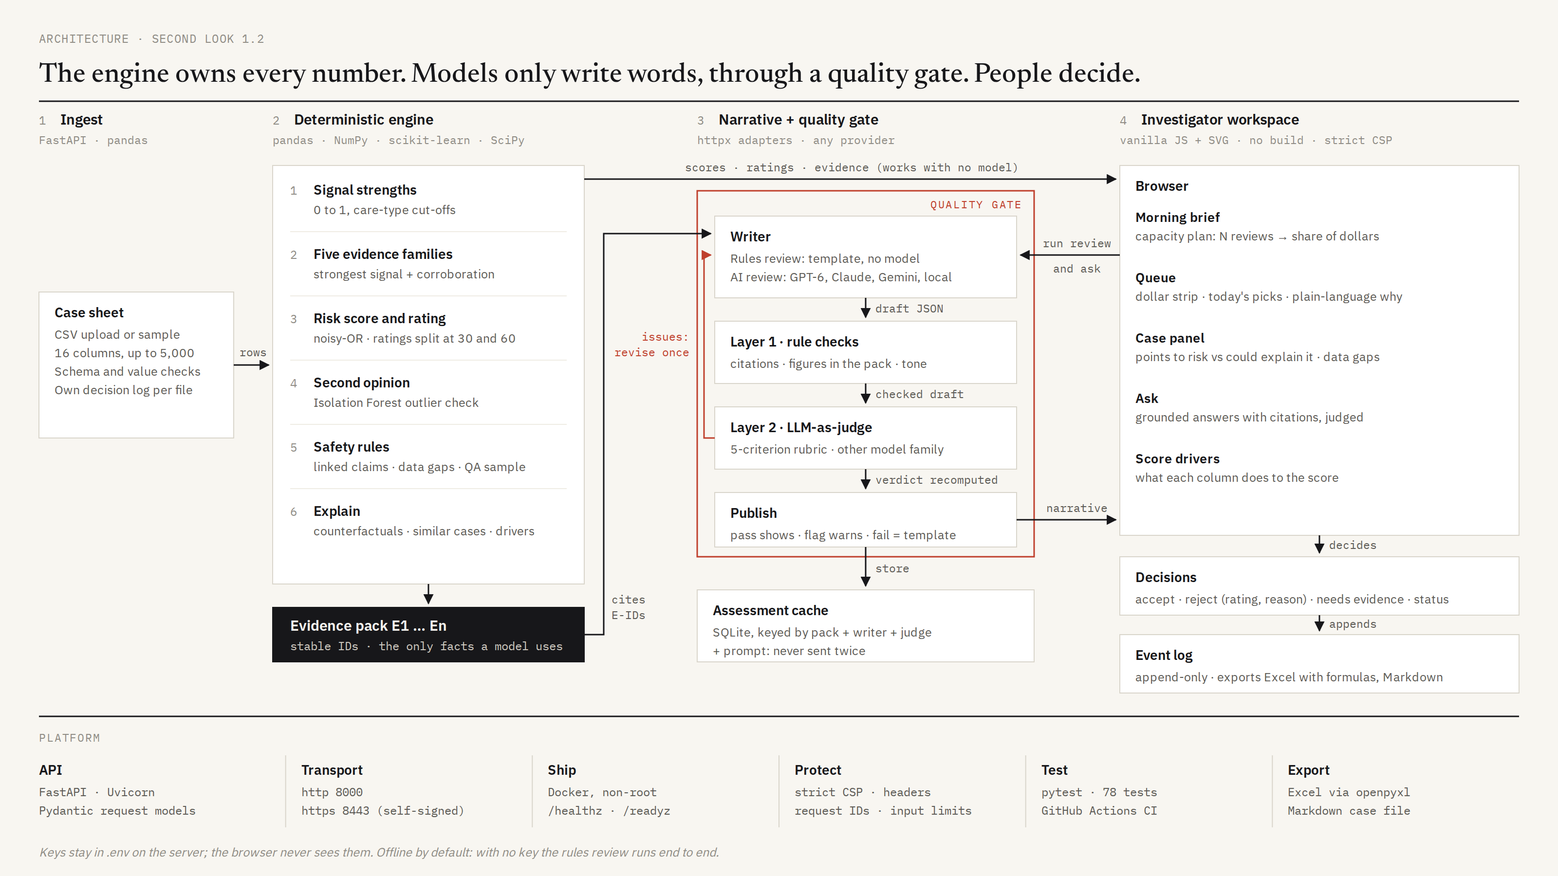
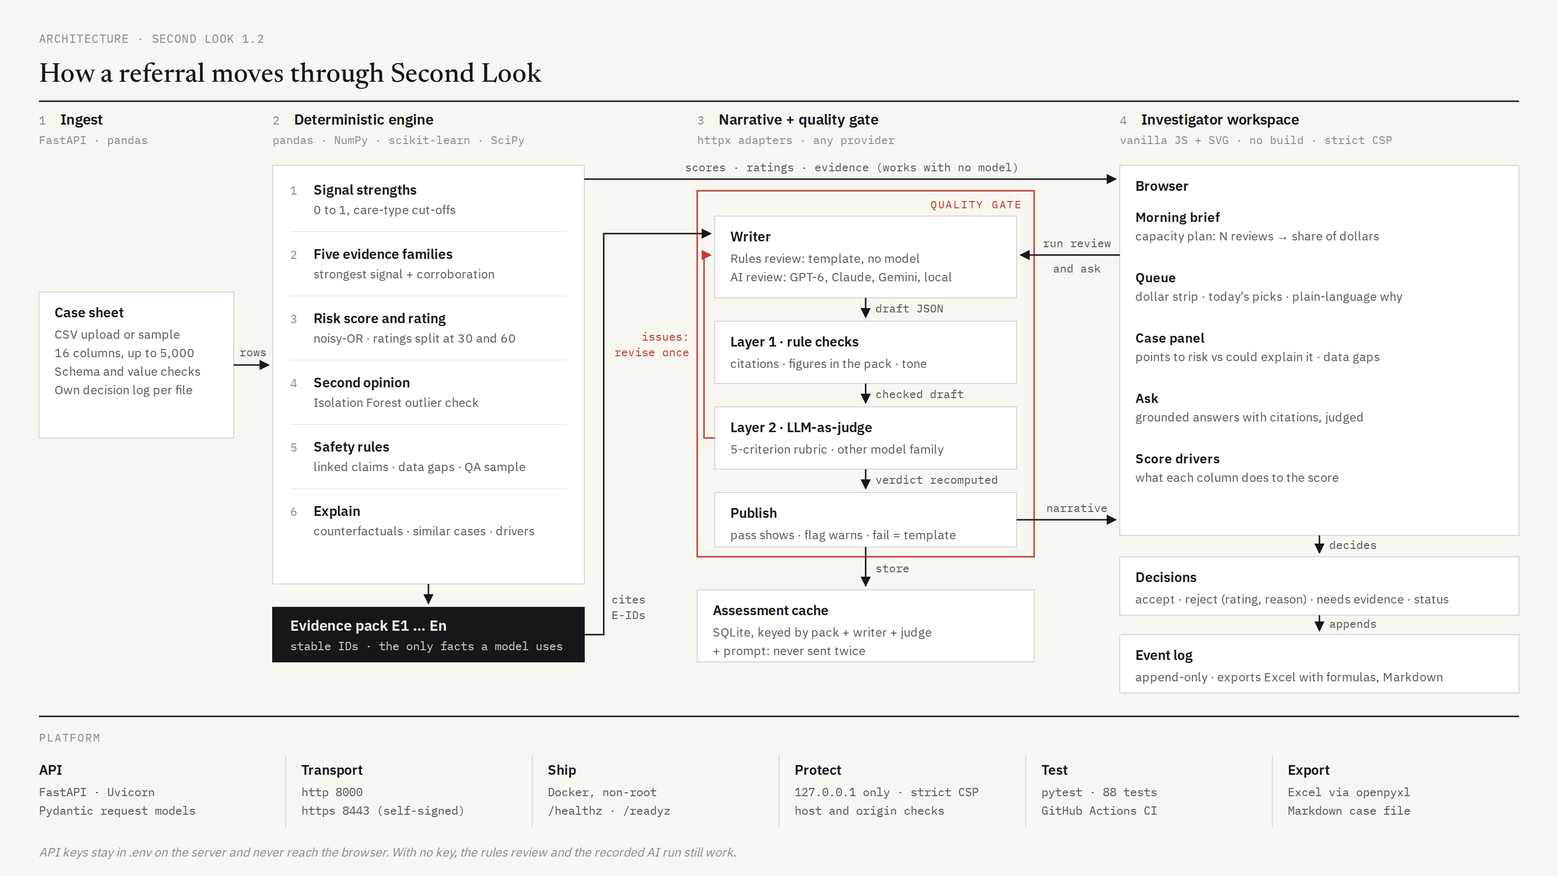
Shorten the README and retitle the architecture diagram

Changed region(s): [[0.0312, 0.0622, 0.7188, 0.0933], [0.0312, 0.9644, 0.4688, 0.9956], [0.5, 0.9022, 0.625, 0.9333]]

diff --git a/docs/architecture.py b/docs/architecture.py
@@ -1,7 +1,8 @@
 """Generate docs/architecture.svg (and, with --png, docs/architecture.png via Playwright).
 
-One figure, one claim: the engine owns every number, models only write words through a
-two-layer quality gate, and people make every decision into an append-only log.
+One figure showing how a referral moves through the app: the case sheet is scored by the
+rules engine, an optional model drafts the text, automated checks and a judge review it, and the
+investigator's actions are written to an append-only log.
 """
 
 from __future__ import annotations
@@ -68,7 +69,7 @@ def build() -> str:
 
     # ---- header
     t(40, 44, "ARCHITECTURE · SECOND LOOK 1.2", size=12, fam=MONO, fill=FAINT, ls="0.06em")
-    t(40, 84, "The engine owns every number. Models only write words, through a quality gate. People decide.", size=28, fam=SERIF, weight=500)
+    t(40, 84, "How a referral moves through Second Look", size=28, fam=SERIF, weight=500)
     out.append(f'<line x1="40" y1="104" x2="{W - 40}" y2="104" stroke="{INK}" stroke-width="1.5"/>')
 
     # ---- column 1: ingest
@@ -169,8 +170,8 @@ def build() -> str:
         ("API", "FastAPI · Uvicorn", "Pydantic request models"),
         ("Transport", "http 8000", "https 8443 (self-signed)"),
         ("Ship", "Docker, non-root", "/healthz · /readyz"),
-        ("Protect", "strict CSP · headers", "request IDs · input limits"),
-        ("Test", "pytest · 78 tests", "GitHub Actions CI"),
+        ("Protect", "127.0.0.1 only · strict CSP", "host and origin checks"),
+        ("Test", "pytest · 88 tests", "GitHub Actions CI"),
         ("Export", "Excel via openpyxl", "Markdown case file"),
     ]
     cw6 = (W - 80) / len(cells)
@@ -182,7 +183,7 @@ def build() -> str:
         t(x + pad, 796, a_, size=14, weight=600)
         t(x + pad, 818, b_, size=12, fam=MONO, fill=MUTED)
         t(x + pad, 837, c_, size=12, fam=MONO, fill=MUTED)
-    t(40, 880, "Keys stay in .env on the server; the browser never sees them. Offline by default: with no key the rules review runs end to end.",
+    t(40, 880, "API keys stay in .env on the server and never reach the browser. With no key, the rules review and the recorded AI run still work.",
       size=12.5, fill=FAINT, italic=True)
 
     out.append("</svg>")

diff --git a/README.md b/README.md
@@ -1,144 +1,98 @@
 # Second Look
 
-AI case review for fraud investigators (the brief's "Junior AI Investigator").
-
-An AI-first case review tool for fraud investigators. Every morning the tool triages the referral queue before anyone opens it: each case gets a risk score, a risk rating, a plain-language assessment with cited evidence, and a recommended next step. The investigator stays in control: they accept or reject each AI finding, move the case through its status, annotate it, and question it.
+Second Look triages a queue of long-term care fraud referrals before an investigator opens it. Each case gets a risk score, a risk rating, a short assessment that cites its evidence, and a suggested next step. The investigator accepts or rejects each finding, moves the case through review, and can ask questions about it.
 
 ![Architecture](docs/architecture.png)
 
-The prototype runs fully offline with no API key, and it ships with one recorded AI review run (GPT-6 Luna writing and Gemini 3.1 Flash-Lite judging, both through Perplexity) so the AI review tab has real model output even without a key. Connecting a language model (any provider) adds model-written narratives, open-ended follow-up questions, and an LLM-as-judge that audits every model output before an investigator sees it.
+A rules engine computes every score. A language model is optional: it writes the assessment and answers questions, and every draft is checked against the case's evidence before anyone sees it. Without an API key, the app shows a recorded model run for the 50 sample cases.
 
-## Run it locally
+## Run it
 
-Requirements: Python 3.11 or newer. Nothing else is needed: no Node, no Docker, and no API key. On a Mac, double-clicking `run_app.command` in the project folder does all of the steps below (the first time, macOS may ask you to allow it; `chmod +x run_app.command` fixes a "permission" error): it checks for Python 3.11 or newer, creates the virtualenv on first run, reinstalls packages only when `requirements.txt` changes, creates `.env` from `.env.example` if there is none, says which AI review you will get (live models if `.env` has a key, otherwise the recorded run), and opens the browser.
+Needs Python 3.11 or newer.
 
 ```bash
 git clone https://github.com/arunbodd/second-look.git
 cd second-look
 python3 -m venv .venv
-source .venv/bin/activate            # Windows: .venv\Scripts\activate
+source .venv/bin/activate        # Windows: .venv\Scripts\activate
 pip install -r requirements.txt
 python serve.py
 ```
 
-Open **http://127.0.0.1:8000** or **https://127.0.0.1:8443**. `serve.py` starts both listeners from one process (if another program already uses 8000 or 8443 it takes the next free port, prints it, and `--open` opens the browser there); the https one uses a self-signed certificate created on first run in `data/certs/` (with the `openssl` command, present on macOS and Linux), so the browser shows a one-time warning to accept. `python serve.py --http-only` or `uvicorn app.main:app --port 8000` gives plain http alone. `make install && make run` does the same in two words.
+Open http://127.0.0.1:8000. The app also serves https on 8443 with a self-signed certificate, so the browser asks you to accept it once. If a port is taken, the next free one is used and printed. Use `python serve.py --http-only` for plain http.
 
-With Docker: `docker compose up --build` serves http://127.0.0.1:8000 from a non-root container with decisions and the model cache on a named volume; put API keys in `.env` first if you want the AI review. `/healthz` and `/readyz` answer for a load balancer, and TLS is expected there. The 50 cases load from `data/sample_cases_synthetic.csv` (the brief calls it `sample_cases.csv`), the queue is triaged at startup, and the **Rules review** tab is ready immediately. (The UI loads three Google Fonts for its look; without internet it falls back to system fonts and works the same.)
+On a Mac, double-click `run_app.command` instead. It creates the virtualenv, installs packages, and opens the browser. If macOS says you lack permission, run `chmod +x run_app.command` once.
 
-To triage your own case sheet, open the **Data** menu (the file name in the top bar), choose **Upload a case sheet**, and pick a file with the same columns as the sample (`case_id`, `claim_number`, `claim_date`, `care_type`, `claim_amount_usd`, `state`, and the ten signal columns). The upload is triaged on the spot, keeps its own decision log, and **Use the sample data** brings the bundled file back. The same menu exports everything to Excel and resets decisions. The same thing works from the command line: `curl -X POST --data-binary @my_cases.csv "http://localhost:8000/api/dataset?filename=my_cases.csv"`.
+Docker: `docker compose up --build`, then open http://127.0.0.1:8000.
 
-Run the tests:
+Tests: `pip install -r requirements-dev.txt && pytest -q`
 
-```bash
-pip install -r requirements-dev.txt
-pytest -q
-```
+## What's in the app
 
-## Connect a language model (optional)
+- **Morning brief.** How many referrals look suspicious, what share of claim dollars they hold, and how much of the money at risk today's picks cover.
+- **Queue.** Cases sorted by risk and dollars at risk, with the evidence behind each score.
+- **Case panel.** The assessment, what points to risk beside what could explain it, the ten signals, the evidence pack, and the decision buttons. Keys: `j`/`k` to move, `a` to accept, `Esc` to close.
+- **Rules review and AI review.** The same queue with template text or model-written text.
+- **Score drivers.** What each signal does to the score in the loaded file, and which signals move together.
+- **Exports.** A Markdown case file per case and an Excel workbook of the queue.
 
-Put an API key in `.env` (`OPENAI_API_KEY`, `ANTHROPIC_API_KEY`, `GEMINI_API_KEY`, or `PERPLEXITY_API_KEY`), start the app, and open the **Models** menu in the top bar to pick a writer and a judge from the current models of each family (GPT-6 Astra/Sol/Luna, Claude Fable 5.1/Opus 5.5/Sonnet 5/Haiku 4.5, Gemini 3.1 Pro/3.8 Flash). A Perplexity key reaches GPT-6, Claude, and Gemini models through Perplexity's Agent API, so one key is enough for a writer and a judge from different makers; web search is never turned on, so answers come from the evidence pack alone. The choice applies at once, without a restart. To fix a default, or to use a local or other OpenAI-compatible server, set the writer and, optionally, a separate judge in `.env`; the same three variables work for every provider, and whatever `.env` names also appears in the menu.
+To triage your own data, use **Data → Upload a case sheet** with the same columns as `data/sample_cases_synthetic.csv`.
 
-| Provider | `LLM_PROVIDER` | `LLM_MODEL` | `LLM_BASE_URL` | `LLM_API_KEY` |
-|---|---|---|---|---|
-| Anthropic | `anthropic` | `claude-sonnet-5` | (empty) | your key |
-| OpenAI | `openai` | `gpt-4.1-mini` | (empty) | your key |
-| Ollama (local) | `openai` | `qwen2.5:7b-instruct` | `http://localhost:11434/v1` | `ollama` |
-| LM Studio, vLLM, llama.cpp | `openai` | the served model name | the server's `/v1` URL | anything |
-| OpenRouter, Groq, Together | `openai` | the provider's model name | the provider's `/v1` URL | your key |
-| Perplexity (GPT, Claude, Gemini) | `perplexity` | `openai/gpt-6-luna`, `anthropic/claude-sonnet-5`, … | (empty) | your key |
-| Anything else | `litellm` | LiteLLM model string | (optional) | (optional) |
+## Language models (optional)
 
-`litellm` is an optional adapter: install it with `pip install litellm` to reach 100+ providers through one library.
+Add a key to `.env` (copy `.env.example`), start the app, and pick a writer and a judge in the **Models** menu. Nothing is sent to a model until you press **Run**.
 
-Recommended: give the judge a different model family from the writer (`JUDGE_PROVIDER`, `JUDGE_MODEL`), because a model rates its own writing too kindly. The UI shows a warning when writer and judge are the same model.
+| Key | Models |
+|---|---|
+| `OPENAI_API_KEY` | GPT-6 Astra, Sol, and Luna |
+| `ANTHROPIC_API_KEY` | Claude Fable 5.1, Opus 5.5, Sonnet 5, and Haiku 4.5 |
+| `GEMINI_API_KEY` | Gemini 3.1 Pro and 3.8 Flash |
+| `PERPLEXITY_API_KEY` | GPT, Claude, and Gemini models through Perplexity's Agent API, with web search off |
 
-Example `.env` for Anthropic writer plus an Ollama judge:
+Use a judge from a different model maker than the writer, because models grade their own writing too kindly. The app warns when they match.
 
-```
-LLM_PROVIDER=anthropic
-LLM_MODEL=claude-sonnet-5
-LLM_API_KEY=sk-ant-...
-JUDGE_PROVIDER=openai
-JUDGE_MODEL=qwen2.5:7b-instruct
-JUDGE_BASE_URL=http://localhost:11434/v1
-JUDGE_API_KEY=ollama
-```
+To set a default pair, or to use a local or other OpenAI-compatible server (Ollama, LM Studio, vLLM, OpenRouter), set `LLM_PROVIDER`, `LLM_MODEL`, `LLM_BASE_URL`, and `LLM_API_KEY` in `.env`, and the same `JUDGE_*` variables for the judge. `LLM_PROVIDER=litellm` works with any provider LiteLLM supports after `pip install litellm`.
 
-Nothing is sent to a model until you ask. Rate limits (429) and transient server errors are retried with exponential backoff that honours `Retry-After`; a rejected request (a bad key, an unknown model) fails at once. On the **AI review** tab a run bar covers exactly the cases the table shows (set with the View selector: all, today's picks, or a risk rating, plus care type and state), and names the writer and judge with and a rough call and cost estimate; **Run** sends those cases, rows fill in as they finish, and **Stop** halts what has not started. A single case can be sent from its row or from the case panel. Results are cached in `data/assessment_cache.db` by evidence pack, writer, judge, and prompt version, so a reset, a restart, switching models back and forth, or re-uploading the same cases never sends the same evidence twice (`PRECOMPUTE=true` reviews everything at startup instead). If the model is unreachable or returns unusable output, the app keeps working and shows a flag on the affected case.
+Model output is cached by evidence, model pair, and prompt version, so the same case is never sent twice. The app counts tokens and cost for every call and shows them in the run bar and on each case.
 
-**Token counter and cost controls.** Every model call's tokens (input, cached input, output, and hidden reasoning) and cost are recorded from the provider's own response; Perplexity reports the exact charge, and for the others it is computed from list prices. The run bar totals them, the quality review shows each case's writer and judge tokens, and each answer carries its own count. The pre-run estimate switches from a budget to measured averages once three cases are reviewed. What keeps the count down: the evidence pack goes to models as compact JSON without the per-item definitions (about 22% fewer tokens than indented JSON), it always opens the first message so a revision or a follow-up question on the same case reuses it through prompt caching (automatic on OpenAI and Perplexity, marked explicitly for Anthropic), a revision continues the conversation instead of resending a new prompt, the judge is not called when the automated checks already failed a draft, and reasoning models run at low reasoning effort (`LLM_REASONING_EFFORT`, `JUDGE_REASONING_EFFORT`). `python -m app.record --max-cost 2` stops a recording before it spends more than two dollars.
+### Recorded run
 
-**Recorded run.** Without a key, the AI review tab replays `data/recorded_review.json`: one real run with GPT-6 Luna writing and Gemini 3.1 Flash-Lite judging (two makers, both through Perplexity), plus judged answers to the ten starter questions for the suspicious cases. The whole recording, 50 reviews and 100 answers in 217 calls, cost $0.33 as billed by Perplexity. It says so in the run bar, stays selectable as "Recorded run" in the Models menu, and never calls a model. Each entry is tied to the evidence-pack fingerprint it was written from, so after a change to the engine, the prompt, or the data a case reads "not run" instead of showing a stale review. Refresh it with `python -m app.record` (or `make record`; options `--writer`, `--judge`, `--questions-for`, `--max-cost`; an interrupted recording resumes where it stopped), or turn it off with `RECORDED_REVIEW=off`.
+`data/recorded_review.json` holds one real run: GPT-6 Luna writing and Gemini 3.1 Flash-Lite judging, both through Perplexity, for all 50 cases, plus answers to the ten starter questions for the suspicious cases. It cost $0.33. The app shows it when no key is set. A case whose evidence has changed since the recording shows "not run".
 
-## What you will see
+Re-record with `python -m app.record` (options: `--writer`, `--judge`, `--max-cost`, default $2).
 
-1. **Morning brief.** One sentence says how many referrals look suspicious and what share of claim dollars they hold; the next says how much of the open dollars at risk the top cases cover ("reviewing the top 8 cases by dollars at risk covers 80% of the open dollars at risk"), with the number editable in place. A strip under it draws every case as a segment sized by its claim amount and coloured by risk rating, with today's picks marked; clicking a rating filters the page.
-2. **Three figures.** What a day of reviews covers (click the curve to set capacity), the risk score distribution by risk rating, and dollars at risk by care type. Clicking a bar filters the queue.
-3. **Queue.** Today's picks are numbered, each row says in plain words why it scored (the top evidence families), and one column shows the decision and status. The toolbar has a search box, a decision filter (To decide, Decided, Closed), one View selector (All, Today's picks, or a risk rating), and care type and state. In AI review the run covers whatever the table shows.
-4. **Review modes.** **Rules review** (engine score, template narrative, rule checks; no model calls) and **AI review** (model-written narratives audited by the LLM judge) share the same queue; switching is instant.
-5. **Case panel.** Score, risk rating, and confidence with the facts that matter; your call on the AI finding (Accept, Reject with a risk rating and reason, or Needs more evidence) and a separate status (New, In review, Documentation requested, Escalated, Closed benign, Closed confirmed concern); "Points to risk" beside "Could explain it"; what this file cannot show; the next step; the ten-signal grid with counterfactuals; and collapsed rows for the evidence pack, verification steps, the quality review, and similar cases. The "Ask about this case" panel names the model answering (or the rules engine in Rules review) and offers ten starter questions. Keyboard: `j`/`k` move between cases, `a` accepts, `Esc` closes.
-6. **Score drivers.** For whichever file is loaded: what each signal does to the score (with the rule that flags it), how the ten signals move together (the risk score and claim amount are left out of the matrix: the score is built from the signals, so correlating it with them would be circular), claim amount against the score, a check of the columns that are not signals, and which column correlations have a business reason.
-7. **Ask and export.** Grounded follow-up questions with citations and optional judge verdicts; a Markdown case file per case; and an Excel workbook of the whole queue whose summary is live formulas, including an editable capacity plan.
+## Security
 
-## How it works
+The app has no sign-in, so it listens on 127.0.0.1 only and cannot be reached from your network or public Wi-Fi. Starting it on another address needs `--allow-network`.
 
-```
-CSV (50 referrals)
-  └─ Deterministic engine (app/engine)
-       signals → strengths → 5 evidence families → risk score (noisy-OR) → risk rating
-       + Isolation Forest second opinion, links, similar cases, counterfactuals, guardrails
-       + evidence pack with stable IDs (E1..En)
-            └─ Narrative writer (app/llm)   offline template  |  any LLM via one adapter
-                 └─ Quality review (app/quality)
-                      layer 1: rule checks (always)      citations, figures, drivers, tone, risk-rating fit
-                      layer 2: LLM-as-judge (optional)   5-criterion rubric, revise loop, audit
-                           └─ publish policy: pass → show; revise → show with flag; fail → template instead
-Investigator ─ accept / reject (risk rating + reason) / needs evidence · status workflow · notes · feedback · questions ─ event log (SQLite)
-                                                                  └─ exports: Markdown case file, Excel workbook
-```
+It also refuses requests addressed to an unknown host name, which blocks DNS rebinding, and write requests from other websites, so a page open in your browser cannot start a model run or change data. Docker publishes the port on 127.0.0.1 only.
 
-The engine owns every number. Models only write words on top of the engine's output, and every model output is checked against the evidence pack before it is shown. The diagram at the top (`docs/architecture.svg`, regenerated with `python docs/architecture.py --png`) shows the same flow with the tech stack.
-
-**Local only by default.** The app has no sign-in, so `serve.py` listens on 127.0.0.1 only and refuses any other address without `--allow-network`; nothing on your office network or public Wi-Fi can reach it. Two further checks (`app/netguard.py`) stop a malicious web page open in the same browser: requests must name an allowed host (`localhost`, `127.0.0.1`, `::1`, plus `ALLOWED_HOSTS`), which defeats DNS rebinding, and a write request sent from any other origin is refused with 403, so a page cannot start an AI review, upload data, or record a decision. Docker publishes the port on 127.0.0.1 only, `run_app.command` makes `.env` readable by you alone, and the self-signed certificate's private key is created with the same restriction.
-
-**Production posture.** Security headers and a strict content-security policy on every response, a request id on every log line and error, JSON errors that never leak stack traces, size limits on uploads, notes, and questions, `/healthz` and `/readyz`, pinned dependencies (`requirements.lock`), a non-root Docker image, and CI that runs the tests on Python 3.11 and 3.12 and builds the image. Not included, deliberately: sign-in and roles, and a managed database; the event log is SQLite behind one small module (`app/store.py`) so it can move to Postgres without touching the rest.
-
-## Project layout
-
-```
-app/
-  engine/    signals.py (thresholds and families), scoring.py, evidence.py, narrative.py (offline text)
-  llm/       providers.py (adapters), catalog.py (models menu), prompts.py, assessor.py (generate → check → judge → revise), chat.py
-  quality/   checks.py (rule layer), judge.py (LLM judge), flaws.py (test fixtures for the rule checks)
-  recorded.py (recorded run replay), record.py (python -m app.record)
-  service.py (queue, assessments, case state), workflow.py (decision and status rules), store.py (SQLite)
-  main.py (FastAPI, middleware, health), export_xlsx.py (Excel workbook)
-  static/    index.html, app.js, app.css (no build step, no JS dependencies; PrimeOmicX styling)
-data/        sample_cases_synthetic.csv, recorded_review.json (the recorded AI run)
-docs/        architecture diagram (.svg, .png, and its generator)
-tests/       88 tests, including mocked LLM providers, the decision workflow, legacy events, the Excel export, and security headers
-run_app.command (Mac launcher), Dockerfile, docker-compose.yml, Makefile, requirements.lock, .github/workflows/ci.yml
-```
-
-## Configuration reference
+## Configuration
 
 | Variable | Default | Meaning |
 |---|---|---|
-| `LLM_PROVIDER` | `offline` | `offline`, `openai`, `anthropic`, `perplexity`, or `litellm` |
-| `LLM_MODEL`, `LLM_BASE_URL`, `LLM_API_KEY` | (empty) | Writer model settings |
-| `LLM_TIMEOUT`, `LLM_TEMPERATURE`, `LLM_MAX_TOKENS`, `LLM_JSON_MODE` | `90`, `0.2`, `1400`, `auto` | Writer request settings (`JSON_MODE` is for OpenAI-compatible servers: `auto`, `on`, or `off`) |
-| `LLM_REASONING_EFFORT`, `JUDGE_REASONING_EFFORT` | `low` | Reasoning effort for GPT-5 and GPT-6 models (`low`, `medium`, `high`, or `none` to send nothing); hidden reasoning is billed as output |
-| `JUDGE_PROVIDER`, `JUDGE_MODEL`, `JUDGE_BASE_URL`, `JUDGE_API_KEY` | same as writer | Judge model settings |
-| `JUDGE_ENABLED` | `true` | Set `false` for rule checks only |
-| `JUDGE_MAX_REVISIONS` | `1` | Revision rounds before a flagged narrative is published or replaced |
-| `JUDGE_CHAT` | `true` | Allow judging chat answers |
-| `OPENAI_API_KEY`, `ANTHROPIC_API_KEY`, `GEMINI_API_KEY`, `PERPLEXITY_API_KEY` | (empty) | Keys the Models menu uses for each family (Perplexity reaches all three makers) |
-| `PRECOMPUTE` | `false` | Review every case at startup instead of waiting for **Run** |
-| `LLM_MAX_CONCURRENCY` | `3` | Parallel model calls during a run |
-| `RECORDED_REVIEW` | `data/recorded_review.json` | Recorded run shown when no model is configured; `off` disables it |
-| `ALLOWED_HOSTS` | (empty) | Extra host names the app answers to, comma-separated (for a deployment behind a proxy); `localhost`, `127.0.0.1`, and `::1` are always allowed |
-| `DATA_PATH` | `data/sample_cases_synthetic.csv` | Input CSV |
-| `LOG_LEVEL` | `INFO` | Log level; each request logs its id, path, status, and time |
-| `DB_PATH` | `data/triage.db` | SQLite file for the event log (uploads get their own file under `data/uploads/`); model output is cached beside it in `assessment_cache.db` |
+| `LLM_PROVIDER`, `LLM_MODEL`, `LLM_BASE_URL`, `LLM_API_KEY` | offline | Default writer model |
+| `JUDGE_PROVIDER`, `JUDGE_MODEL`, `JUDGE_BASE_URL`, `JUDGE_API_KEY` | same as writer | Default judge model |
+| `JUDGE_ENABLED` | `true` | `false` runs the automated checks only |
+| `JUDGE_MAX_REVISIONS` | `1` | Rewrites allowed after the judge flags a draft |
+| `LLM_REASONING_EFFORT` | `low` | Reasoning effort for GPT-5 and GPT-6 models |
+| `LLM_MAX_CONCURRENCY` | `3` | Model calls run at once |
+| `RECORDED_REVIEW` | `data/recorded_review.json` | Recorded run file; `off` disables it |
+| `ALLOWED_HOSTS` | (empty) | Extra host names, for a deployment behind a proxy |
+| `DATA_PATH` | `data/sample_cases_synthetic.csv` | Case sheet loaded at startup |
+| `DB_PATH` | `data/triage.db` | Decision log (SQLite) |
 
-To start clean, use **Data → Reset decisions and notes** in the UI (clears decisions, notes, and questions but keeps cached narratives), or stop the server and delete `data/triage.db` and `data/assessment_cache.db` (clears everything).
+To start over, use **Data → Reset decisions and notes**, or delete `data/triage.db` and `data/assessment_cache.db`.
+
+## Layout
+
+```
+app/engine/     signals, scoring, evidence pack, template text
+app/llm/        model adapters, prompts, writer, chat, token accounting
+app/quality/    automated checks and the model judge
+app/static/     the web page (no build step)
+app/            service, API, workflow, event store, network checks, Excel export
+data/           sample cases and the recorded run
+docs/           architecture diagram and its generator
+tests/          88 tests
+```
